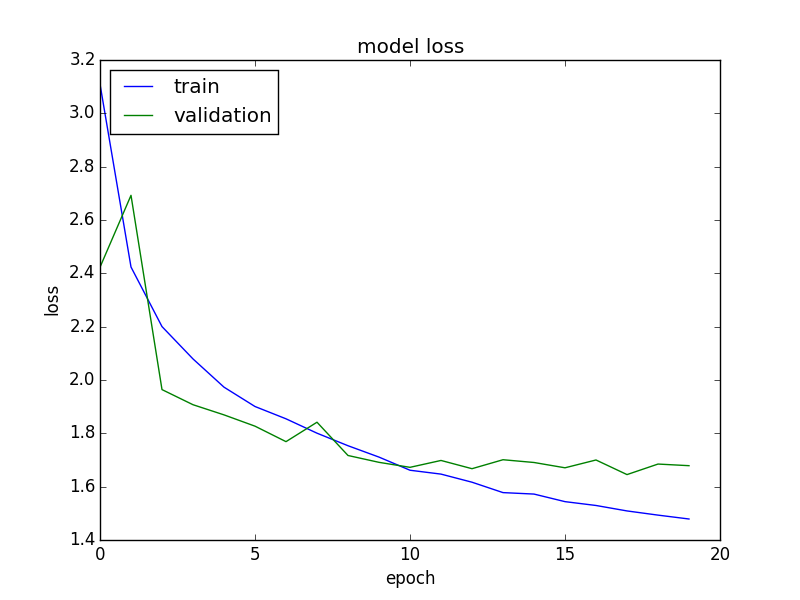
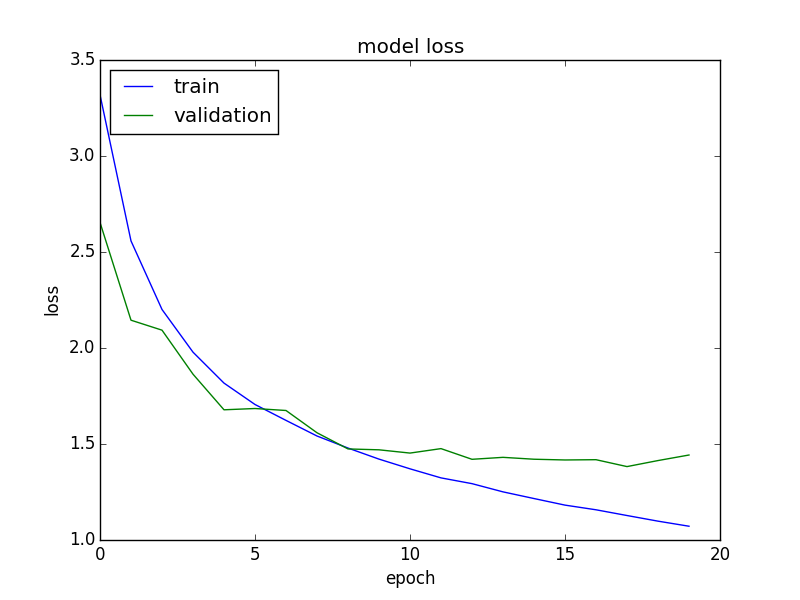
Experimento 5

diff --git a/convnet_1000_test1/convnet_1000_test1.py b/convnet_1000_test1/convnet_1000_test1.py
@@ -116,7 +116,7 @@ model.add(Dense(nb_classes))
 model.add(Activation('softmax'))
 
 model.compile(loss='categorical_crossentropy',
-              optimizer='nadam',  # alternativa: rmsprop?
+              optimizer='adamax',  # alternativa: rmsprop?
               metrics=['accuracy'])
 
 model.summary()
